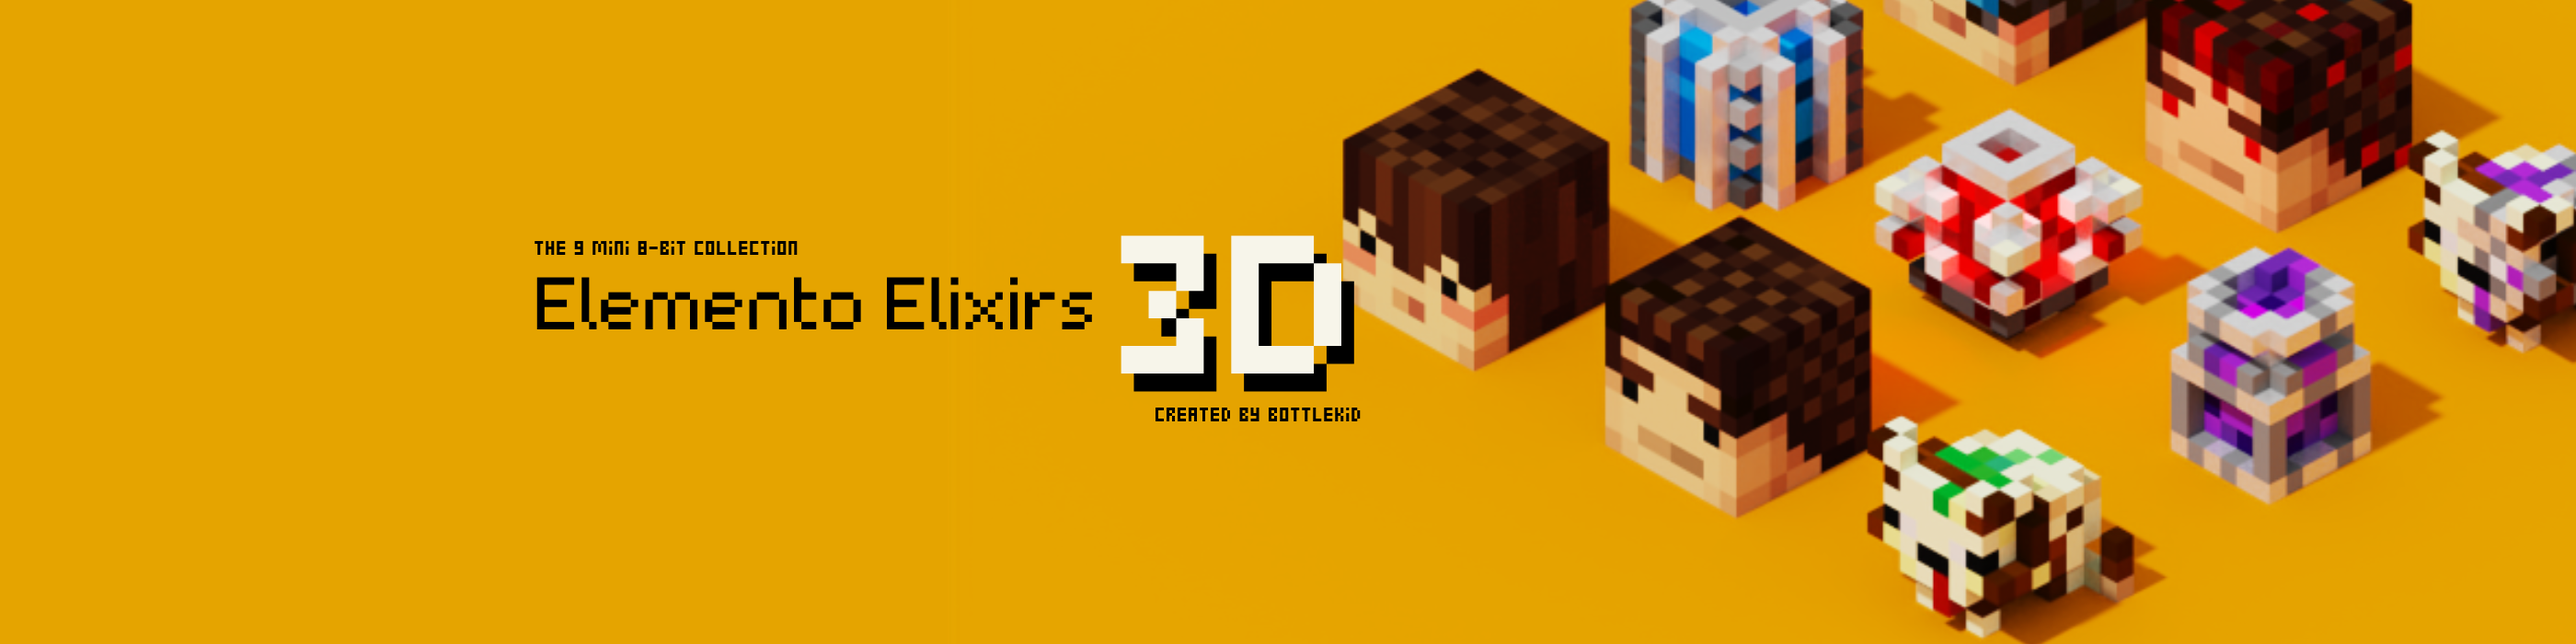
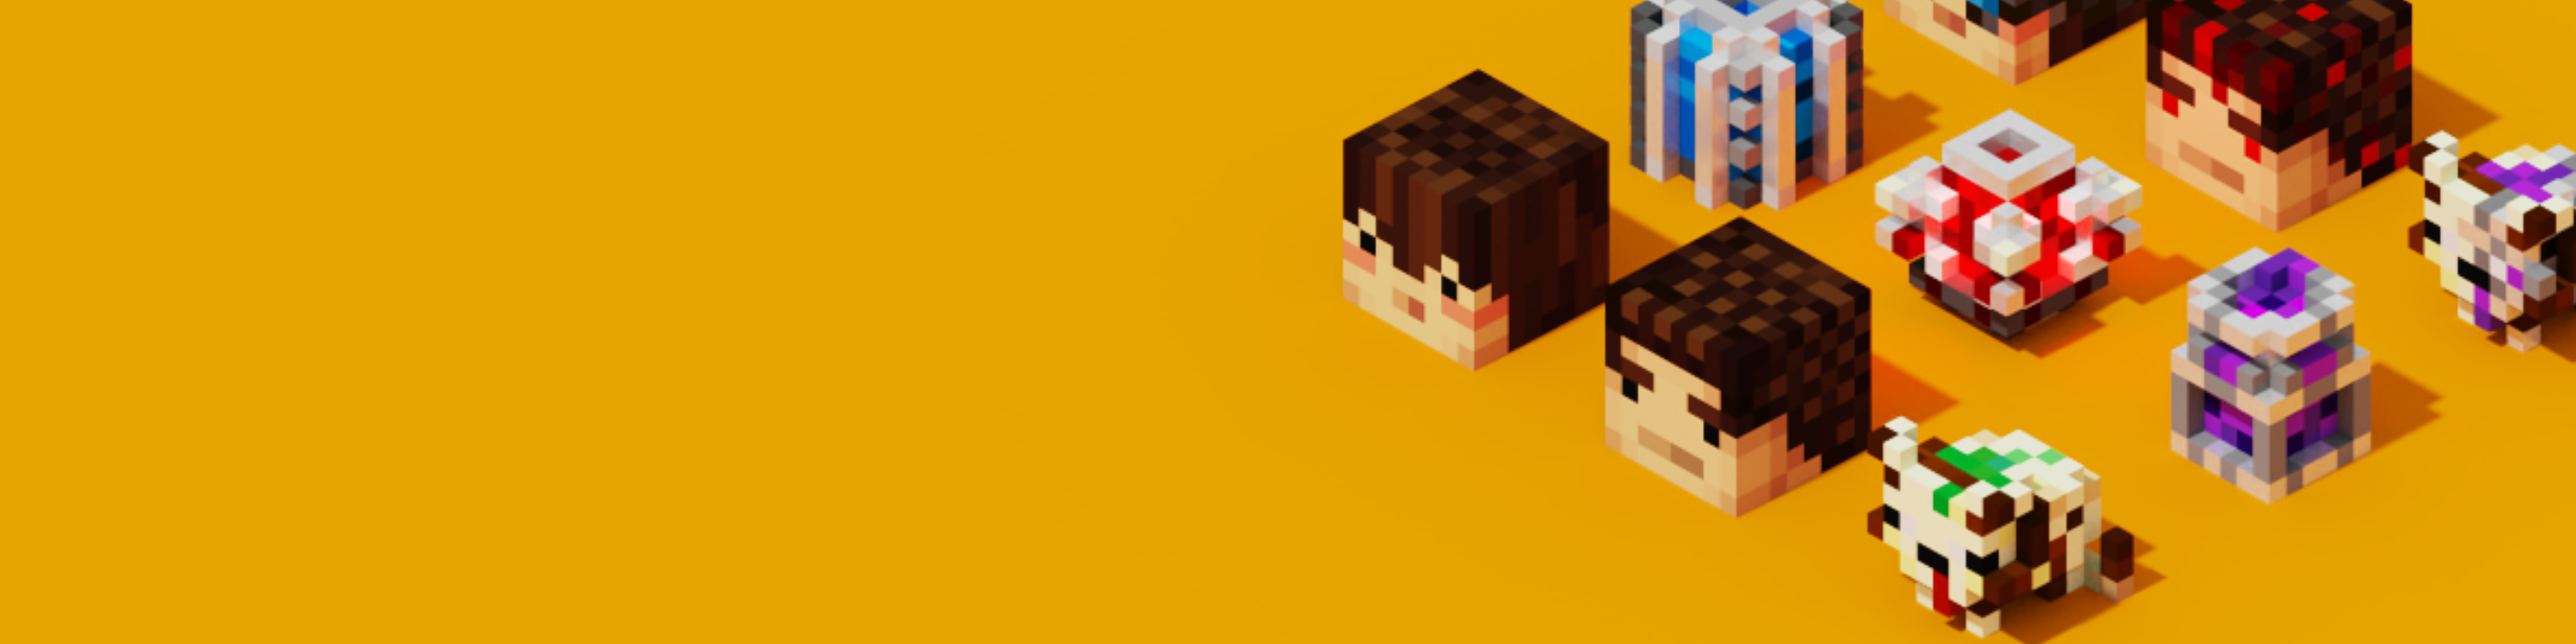
wrote the css and switched image of website and changed html

Changed region(s): [[0.1864, 0.36, 0.5282, 0.66], [0.1864, 0.36, 0.3107, 0.42]]

diff --git a/index.html b/index.html
@@ -3,8 +3,17 @@
    <head>
         <title>Elemento Elixirs 3D</title>
         <link rel="icon" href="img/Robohyperswitch.png">
+        <link rel="preconnect" href="https://fonts.googleapis.com">
+        <link rel="preconnect" href="https://fonts.gstatic.com" crossorigin>
+        <link href="https://fonts.googleapis.com/css2?family=Press+Start+2P&display=swap" rel="stylesheet">
+        <link rel="stylesheet" type="text/css" href="css/elementoelixirs.css">
    </head> 
    <body>
+
+    <link rel="preconnect" href="https://fonts.googleapis.com">
+<link rel="preconnect" href="https://fonts.gstatic.com" crossorigin>
+<link href="https://fonts.googleapis.com/css2?family=Press+Start+2P&family=VT323&display=swap" rel="stylesheet">
+
     <!--Header Element-->
     <header>
         <img src="img/Bannerelixir.png">
@@ -26,7 +35,7 @@
         </p>
         <img src="img/elixir1.png">
 
-        <li><a target="_blank" href="https://opensea.io/collection/elementoelixirs3d">Head to the collection here</a></li>
+        <li><a target="_blank" href="https://opensea.io/collection/elementoelixirs3d">Head to the Collection Here</a></li>
         
         <!-- Attributes -->
         <h2>Attributes</h2>

diff --git a/css/elementoelixirs.css b/css/elementoelixirs.css
@@ -1,0 +1,38 @@
+body{
+    margin: 0; 
+    background-color: black; 
+    font-size: 20px;
+    line-height: 30px;
+    font-family: 'Press Start 2P', cursive; font-family: 'VT323', monospace;
+}
+/*header style*/
+header{
+    background-color: #E5A400;
+    padding-bottom: 50px;
+    margin: 0 auto; 
+    padding: 0 20px 20px 100px;}
+
+    h1, h2{font-family: 'Press Start 2P', cursive;}
+
+header h1{color: black; font-size: xx-large;}
+
+header img{max-width: 100%;}
+
+/* main style */
+
+main{max-width: 800px; margin: 0 auto; padding: 0 20px;}
+main img{max-width: 100%}
+
+h2{font-size: 30px; color: #E5A400; margin: 40px 0 10;}
+p{color: white;}
+
+ol{color: white;}
+
+a{color: #E5A400;}
+a:hover{color: lightseagreen;}
+footer a{color: white;}
+footer{background-color: #E5A400; text-align: center; color:white; padding: 30px;}
+footer p[margin: 0;]
+
+
+footer a:hover{color:  lightcoral; opacity: .5; background-color: transparent}
